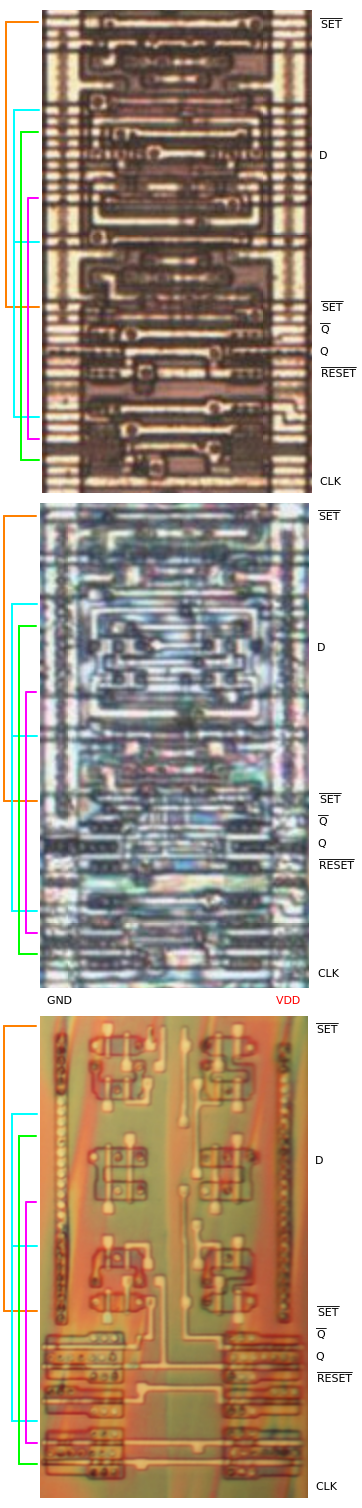
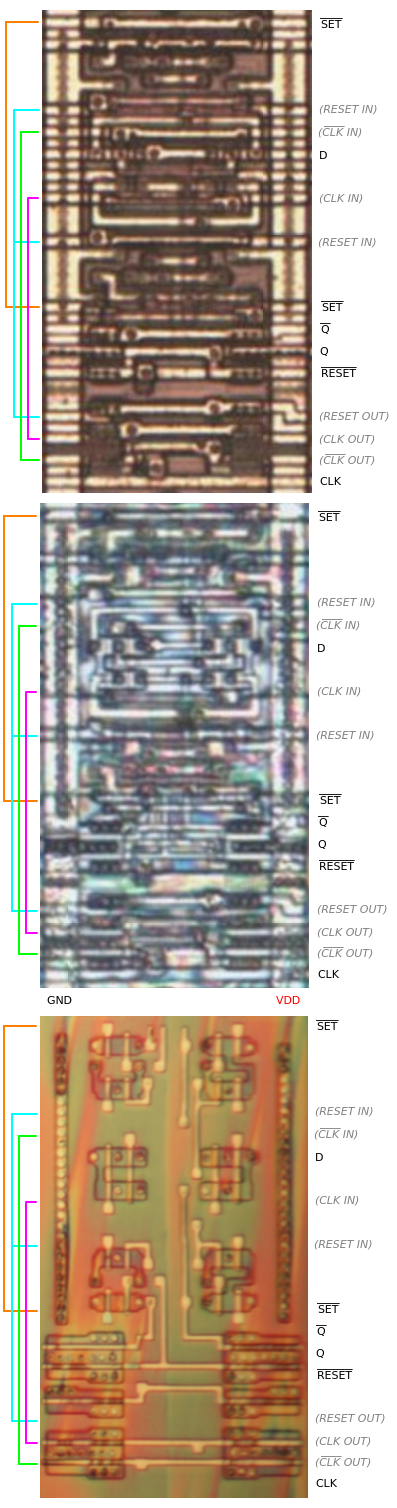
Add layout and schematic for DFFSR cell

diff --git a/doc/dmg_cells.html b/doc/dmg_cells.html
@@ -4818,11 +4818,22 @@ to each other (by the pink line in the picture).</td></tr>
 </p>
 <h3 id="dffsr">DFFSR</h3>
 <p>Positive-edge-triggered data flip-flop with active-low asynchronous set and reset.</p>
+<p>There are five big inverters at the bottom of the cell. Two of them are inverting the clock signal two times
+to regenerate a possibly degraded clock signal and also provide the complement clock in the process. The third
+one is used to invert the <span style="text-decoration:overline"><i>RESET</i></span> signal. The cell doesn't
+internally connect the outputs of these three inverters anywhere. There are external connections need to be made
+to connect them to the rest of the cell. The other two inverters are driving the <i>Q</i> and
+<span style="text-decoration:overline"><i>Q</i></span> outputs.</p>
 <p>There are four external connections always made on this cell (see orange, cyan, green and pink
-lines in the picture) that seem to be necessary for it to work.</p>
+lines in the picture). The green and pink connections feed the positive and negative clocks generated by the
+bottom part to the transmission gates in the main part of the cell. There is not a single instance of this cell
+that has those two clock connections crossed, which means all instances trigger on a positive clock edge. The
+cyan connection feeds the reset signal from the bottom part to the AOI compounds in the main part of the cell.
+The orange connection is required to connect the two <span style="text-decoration:overline"><i>SET</i></span>
+inputs.</p>
 <p>Name in <a href="https://github.com/furrtek/DMG-CPU-Inside">DMG-CPU-Inside</a>: DFF3</p>
 <table>
-<tr><td><img src="img/cells/dffsr_naty_vare_sohu_desc.png?v=0" style="min-width:300px;" alt=""></td>
+<tr><td><img src="img/cells/dffsr_naty_vare_sohu_desc.png?v=1" style="min-width:300px;" alt=""></td>
 <td><table class="default">
 <tr><th>I/O</th><th>Description</th></tr>
 <tr><td><i>D</i></td>
@@ -4833,7 +4844,10 @@ lines in the picture) that seem to be necessary for it to work.</p>
 <td>Active-low set input. Data inside the flip-flop gets set to 1 when
 <span style="text-decoration:overline"><i>SET</i></span> is low. There are two
 <span style="text-decoration:overline"><i>SET</i></span> inputs to this cell, which are externally connected to
-each other (by the orange line in the picture).</td></tr>
+each other (by the orange line in the picture). The <span style="text-decoration:overline"><i>RESET</i></span>
+input has priority over <span style="text-decoration:overline"><i>SET</i></span>, meaning when
+<span style="text-decoration:overline"><i>RESET</i></span> is low,
+<span style="text-decoration:overline"><i>SET</i></span> has no effect.</td></tr>
 <tr><td><span style="text-decoration:overline"><i>RESET</i></span></td>
 <td>Active-low reset input. Data inside the flip-flop gets reset to 0 when
 <span style="text-decoration:overline"><i>RESET</i></span> is low.</td></tr>
@@ -4841,8 +4855,27 @@ each other (by the orange line in the picture).</td></tr>
 <td>Data output.</td></tr>
 <tr><td><span style="text-decoration:overline"><i>Q</i></span></td>
 <td>Inverted data output.</td></tr>
+</table>
+<p>&nbsp;</p>
+<table class="default">
+<tr><th>External Connection</th><th>Description</th></tr>
+<tr><td><span style="color:gray"><i><span style="text-decoration:overline">CLK</span> OUT</i></span></td>
+<td>Outputs inverted state of <i>CLK</i>.</td></tr>
+<tr><td><span style="color:gray"><i><span style="text-decoration:overline">CLK</span> IN</i></span></td>
+<td>Input receiving the inverted clock from
+<span style="color:gray"><i><span style="text-decoration:overline">CLK</span> OUT</i></span>.</td></tr>
+<tr><td><span style="color:gray"><i>CLK OUT</i></span></td>
+<td>Outputs (double-inverted) state of <i>CLK</i>.</td></tr>
+<tr><td><span style="color:gray"><i>CLK IN</i></span></td>
+<td>Input receiving the clock from <span style="color:gray"><i>CLK OUT</i></span>.</td></tr>
+<tr><td><span style="color:gray"><i>RESET OUT</i></span></td>
+<td>Outputs inverted state of <span style="text-decoration:overline"><i>RESET</i></span>.</td></tr>
+<tr><td><span style="color:gray"><i>RESET IN</i></span></td>
+<td>Input receiving the reset signal from <span style="color:gray"><i>RESET OUT</i></span>.</td></tr>
 </table></td></tr>
 </table>
+<p><img src="img/cells/dffsr_layout.png?v=0" alt=""></p>
+<p><img src="img/cells/dffsr_sch.png?v=0" alt=""></p>
 <p>Instances:
 <a href="/dmg_cpu_b_map/?view=c:axan">AXAN</a>
 <a href="/dmg_cpu_b_map/?view=c:agez">AGEZ</a>
